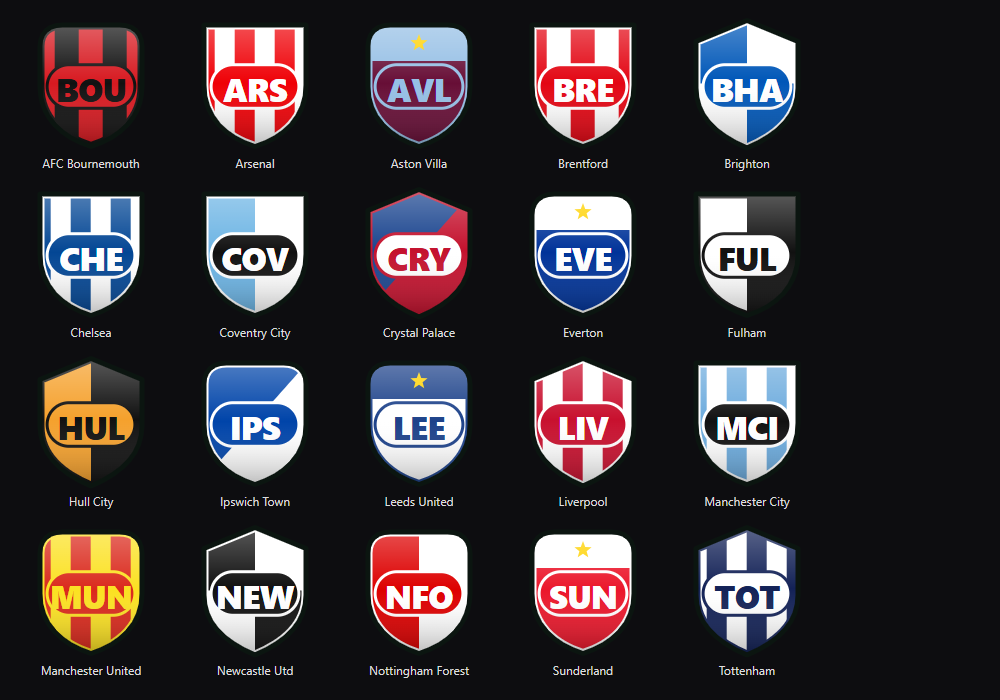
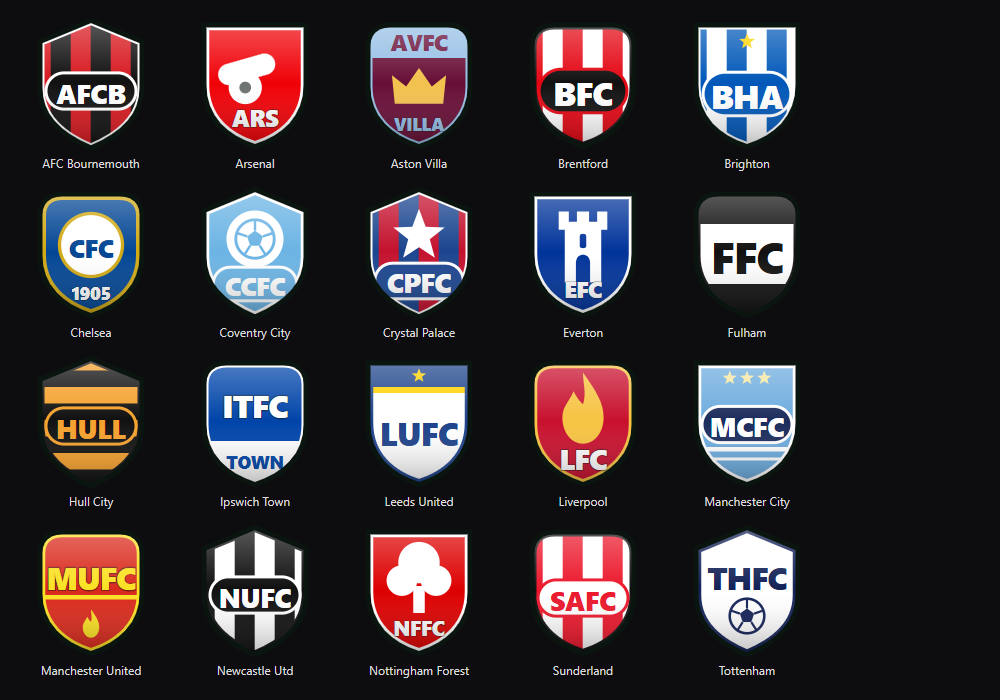
Carreira: escudos dos 96 clubes europeus refeitos à mão

diff --git a/public/carreira/escudos.js b/public/carreira/escudos.js
@@ -2,8 +2,9 @@
 // Cada escudo é uma forma (escudo, tábua, ponta, redondo ou triângulo) com camadas por dentro: o fundo, listras, faixas,
 // diagonais, o anel, a borda, estrelas, um símbolo e as letras do clube, tudo recortado na forma, com um contorno escuro e
 // um brilho suave por cima.
-// - Os 20 do Brasileirão têm o desenho feito à mão (ESPECIAIS), com o jeito de cada clube: as listras do Flamengo, o
-//   cruzeiro do Cruzeiro, a âncora do Corinthians, a cruz do Vasco, os remos do Remo...
+// - Os 20 do Brasileirão e os 96 clubes das cinco ligas europeias têm o desenho feito à mão (ESPECIAIS), com o jeito de
+//   cada clube: as listras do Flamengo, o cruzeiro do Cruzeiro, a âncora do Corinthians, a torre do Everton, o morcego do
+//   Valencia, o submarino do Villarreal, a flor-de-lis da Fiorentina, a torre Eiffel do PSG...
 // - Os outros clubes usam a receita da base (clube.escudo: forma, fundo, listras, faixa, diagonal, anel, borda, texto,
 //   simbolo, estrelasTopo...). Quando a receita é só fundo, borda e as letras, o escudo ganha um desenho de um dos 7
 //   jeitos (faixa no topo, duas metades, faixa no meio, V, diagonal, listras ou cantos) e uma das 3 formas, sorteados
@@ -43,6 +44,10 @@
   const estrelaPts = (cx, cy, R) => Array.from({ length: 10 }, (_, i) => { const r = i % 2 ? R * 0.42 : R, a = (-90 + i * 36) * Math.PI / 180; return [n2(cx + r * Math.cos(a)), n2(cy + r * Math.sin(a))]; });
   const estrela = (cx, cy, R, cor) => pol(estrelaPts(cx, cy, R), cor, 'stroke-linejoin="round"');
   const estrelas = (n, cy, R, cor) => { const passo = R * 2.3; return Array.from({ length: n }, (_, i) => estrela(40 + (i - (n - 1) / 2) * passo, cy, R, cor)).join(""); };
+  const cruz = (cor, larg = 12, cx = 40, cy = 45) => ret(cx - larg / 2, 0, larg, H, cor) + ret(0, cy - larg / 2, W, larg, cor);
+  const chevron = (cor, y = 0) => pol([[-5, y - 6], [40, y + 32], [85, y - 6], [85, y + 16], [40, y + 54], [-5, y + 16]], cor);
+  const metade = (cor) => ret(40, 0, 40, H, cor);
+  const losangos = (cor, cx, cy, r, n) => { let s = ""; for (let i = -n; i <= n; i++) for (let j = -n; j <= n; j++) if ((i + j) % 2 === 0) s += pol([[cx + i * r, cy + j * r - r], [cx + i * r + r, cy + j * r], [cx + i * r, cy + j * r + r], [cx + i * r - r, cy + j * r]], cor); return s; };
   const FONTE = "Geist, Inter, system-ui, Arial, sans-serif";
   const tamanhoQueCabe = (s, tam, max, extra = 0) => Math.min(tam, max / ([...s].length * 0.62 + extra));
   function texto(s, cx, cy, tam, cor, { max = 58, contorno = "#0b151073" } = {}) {
@@ -63,6 +68,16 @@
     remos: (c) => `<g stroke="${c}" stroke-width="3" stroke-linecap="round"><path d="M-13 -17L13 13M13 -17L-13 13"/></g>`
       + `<ellipse rx="3.4" ry="7" transform="translate(14.5 15) rotate(-42)" fill="${c}"/><ellipse rx="3.4" ry="7" transform="translate(-14.5 15) rotate(42)" fill="${c}"/>`,
     cruzCristo: (c, c2) => `<path d="M-4.5 -19H4.5L5.5 -5.5L19 -4.5V4.5L5.5 5.5L4.5 19H-4.5L-5.5 5.5L-19 4.5V-4.5L-5.5 -5.5Z" fill="${c}"/><path d="M-1.6 -11H1.6V-1.6H11V1.6H1.6V11H-1.6V1.6H-11V-1.6H-1.6Z" fill="${c2 || "#fff"}"/>`,
+    canhao: (c) => `<g fill="${c}"><rect x="-19" y="-7" width="30" height="11" rx="5.5" transform="rotate(-16)"/><circle cx="-5" cy="9" r="8.5"/><circle cx="-5" cy="9" r="3" fill="#0b151099"/></g>`,
+    chama: (c) => `<path d="M0 -19C7 -9 11 -3 11 5C11 13 6 19 0 19C-6 19 -11 13 -11 5C-11 -1 -7 -4 -5 -9C-3 -5 -1 -3 0 -2C2 -8 0 -13 0 -19Z" fill="${c}"/>`,
+    torre: (c, c2) => `<path d="M-9 20V-6H-12V-15H-7V-10H-3V-15H3V-10H7V-15H12V-6H9V20Z" fill="${c}"/><path d="M-3.5 20V10C-3.5 5 3.5 5 3.5 10V20Z" fill="${c2 || "#0b1510aa"}"/><rect x="-1.6" y="-4" width="3.2" height="7" rx="1.2" fill="${c2 || "#0b1510aa"}"/>`,
+    arvore: (c) => `<g fill="${c}"><rect x="-3.2" y="5" width="6.4" height="15"/><circle cx="0" cy="-8" r="11.5"/><circle cx="-9.5" cy="2" r="8.5"/><circle cx="9.5" cy="2" r="8.5"/></g>`,
+    morcego: (c) => `<path d="M-19 -5C-12 -13 -6 -9 0 -13C6 -9 12 -13 19 -5C14 -4 12 0 10 5C6 1 4 1 0 5C-4 1 -6 1 -10 5C-12 0 -14 -4 -19 -5Z" fill="${c}"/>`,
+    submarino: (c, c2) => `<g fill="${c}"><ellipse cx="0" cy="4" rx="19" ry="9.5"/><rect x="-5" y="-8" width="10" height="12" rx="2.5"/><rect x="1.5" y="-14" width="3" height="8"/><rect x="1.5" y="-14" width="10" height="3"/><path d="M19 4L24 -2V10Z"/></g><g fill="${c2 || "#0b151099"}"><circle cx="-9" cy="4" r="2.6"/><circle cx="0" cy="4" r="2.6"/><circle cx="9" cy="4" r="2.6"/></g>`,
+    flordelis: (c) => `<g fill="${c}"><path d="M0 -20C7 -13 7 -4 0 5C-7 -4 -7 -13 0 -20Z"/><path d="M-4 3C-13 -9 -21 -5 -19 3C-18 9 -11 10 -5 7Z"/><path d="M4 3C13 -9 21 -5 19 3C18 9 11 10 5 7Z"/><rect x="-10" y="8" width="20" height="4.5" rx="1.5"/><path d="M-4 12L0 20L4 12Z"/></g>`,
+    flor: (c, c2) => `<g fill="${c}">${[0, 72, 144, 216, 288].map((a) => `<ellipse cx="0" cy="-10" rx="6.5" ry="9.5" transform="rotate(${a})"/>`).join("")}</g><circle r="5.2" fill="${c2 || "#0b151099"}"/>`,
+    touro: (c, c2) => `<g fill="${c}"><path d="M-19 -15C-19 -4 -12 2 -7 2L7 2C12 2 19 -4 19 -15C14 -8 10 -6 6 -6L-6 -6C-10 -6 -14 -8 -19 -15Z"/><ellipse cx="0" cy="8" rx="9.5" ry="12.5"/></g><circle cx="-4.2" cy="7" r="1.7" fill="${c2 || "#0b1510"}"/><circle cx="4.2" cy="7" r="1.7" fill="${c2 || "#0b1510"}"/>`,
+    eiffel: (c) => `<g fill="${c}"><path d="M-2 -20H2L11 20H5L0 4L-5 20H-11Z"/><rect x="-6.5" y="-5" width="13" height="3"/><rect x="-9.5" y="8" width="19" height="3"/></g>`,
     coroa: (c) => `<path d="M-17 11L-19 -9L-9 -1L0 -14L9 -1L19 -9L17 11Z" fill="${c}"/>`,
     bola: (c) => `<circle r="16" fill="#fff" stroke="${c}" stroke-width="2.4"/><path d="M0 -7L6.6 -2.2L4 5.6H-4L-6.6 -2.2Z" fill="${c}"/><path d="M0 -7V-16M6.6 -2.2L15 -5M4 5.6L9 13.5M-4 5.6L-9 13.5M-6.6 -2.2L-15 -5" stroke="${c}" stroke-width="2" fill="none"/>`,
     raio: (c) => `<path d="M5 -20L-12 4H-2L-6 20L13 -5H3Z" fill="${c}" stroke="#0b151066" stroke-width="1.2" stroke-linejoin="round"/>`,
@@ -93,6 +108,112 @@
     chapecoense: { forma: "escudo", cam: (d) => [fundo("#00843d"), borda(d, "#ffffff", 3.5), texto("ACF", 40, 40, 27, "#ffffff"), faixa(51, 54, "#ffffff"), texto("CHAPE", 40, 64, 12, "#ffffff")] },
     remo: { forma: "escudo", cam: (d) => [fundo("#0a2a66"), borda(d, "#ffffff", 3.5), estrela(40, 19, 6.5, OURO), simbolo("remos", 40, 38, 0.95, "#ffffff"), texto("REMO", 40, 67, 13, "#ffffff")] },
   };
+
+  // ---------- os 96 das cinco ligas europeias ----------
+  // cada um com as cores do clube e um elemento que lembra o escudo (sem copiar o desenho)
+  Object.assign(ESPECIAIS, {
+    // Inglaterra
+    "afc-bournemouth": { forma: "ponta", cam: (d) => [listrasV(["#d71920", "#111111"], 6), borda(d, "#ffffff", 3), pill("AFCB", 40, 50, 20, "#111111", "#ffffff", "#ffffff")] },
+    arsenal: { forma: "escudo", cam: (d) => [fundo("#ef0107"), borda(d, "#ffffff", 3.5), simbolo("canhao", 40, 36, 1.3, "#ffffff"), texto("ARS", 40, 67, 16, "#ffffff")] },
+    "aston-villa": { forma: "tabua", cam: (d) => [fundo("#670e36"), faixa(6, 28, "#95bfe5"), borda(d, "#95bfe5", 3), texto("AVFC", 40, 17, 15, "#670e36", { contorno: "#ffffff00" }), simbolo("coroa", 40, 48, 0.95, "#f2c14e"), texto("VILLA", 40, 72, 12, "#95bfe5")] },
+    brentford: { forma: "tabua", cam: (d) => [listrasV(["#e30613", "#ffffff"], 6), borda(d, "#111111", 3), pill("BFC", 40, 50, 22, "#111111", "#ffffff", "#e30613")] },
+    brighton: { forma: "escudo", cam: (d) => [listrasV(["#0057b8", "#ffffff"], 6), borda(d, "#ffffff", 3), pill("BHA", 40, 52, 22, "#0057b8", "#ffffff", "#ffffff"), estrelas(1, 17, 5.5, OURO)] },
+    chelsea: { forma: "tabua", cam: (d) => [fundo("#034694"), borda(d, "#d1a915", 4), disco(40, 40, 21, "#ffffff", "#d1a915"), texto("CFC", 40, 41, 17, "#034694", { contorno: "#ffffff00" }), texto("1905", 40, 72, 12, "#ffffff")] },
+    "coventry-city": { forma: "ponta", cam: (d) => [fundo("#6cb4e4"), borda(d, "#ffffff", 3.5), disco(40, 36, 19, "#ffffff"), simbolo("bola", 40, 36, 0.8, "#6cb4e4"), pill("CCFC", 40, 66, 17, "#6cb4e4", "#ffffff", "#ffffff")] },
+    "crystal-palace": { forma: "ponta", cam: (d) => [listrasV(["#1b458f", "#c4122e"], 6), borda(d, "#ffffff", 3), simbolo("estrela", 40, 33, 0.9, "#ffffff"), pill("CPFC", 40, 64, 18, "#1b458f", "#ffffff", "#ffffff")] },
+    everton: { forma: "escudo", cam: (d) => [fundo("#003399"), borda(d, "#ffffff", 3.5), simbolo("torre", 40, 38, 1.35, "#ffffff", "#003399"), texto("EFC", 40, 69, 15, "#ffffff")] },
+    fulham: { forma: "tabua", cam: (d) => [fundo("#ffffff"), faixa(6, 26, "#111111"), faixa(66, 90, "#111111"), borda(d, "#111111", 3), texto("FFC", 40, 47, 29, "#111111", { contorno: "#ffffffaa" })] },
+    "hull-city": { forma: "ponta", cam: (d) => [listrasH(["#f5a12d", "#111111"], 11), borda(d, "#111111", 3), pill("HULL", 40, 48, 20, "#111111", "#f5a12d", "#f5a12d")] },
+    "ipswich-town": { forma: "tabua", cam: (d) => [fundo("#0044a9"), faixa(58, 90, "#ffffff"), borda(d, "#ffffff", 3), texto("ITFC", 40, 34, 21, "#ffffff"), texto("TOWN", 40, 72, 12, "#0044a9", { contorno: "#ffffff00" })] },
+    "leeds-united": { forma: "escudo", cam: (d) => [fundo("#ffffff"), faixa(6, 22, "#1d428a"), faixa(22, 26, "#ffd100"), borda(d, "#1d428a", 3.5), estrelas(1, 14.5, 5, "#ffd100"), texto("LUFC", 40, 52, 22, "#1d428a", { contorno: "#ffffffaa" })] },
+    liverpool: { forma: "tabua", cam: (d) => [fundo("#c8102e"), borda(d, "#f6c342", 3.5), simbolo("chama", 40, 36, 1.25, "#f6c342"), texto("LFC", 40, 69, 19, "#ffffff")] },
+    "manchester-city": { forma: "escudo", cam: (d) => [fundo("#6cabdd"), borda(d, "#ffffff", 3.5), estrelas(3, 16, 5, "#f6e7a1"), pill("MCFC", 40, 47, 20, "#1c2c5b", "#ffffff", "#ffffff"), faixa(62, 65, "#ffffff"), faixa(69, 71, "#ffffff")] },
+    "manchester-united": { forma: "tabua", cam: (d) => [fundo("#da291c"), borda(d, "#fbe122", 3.5), texto("MUFC", 40, 36, 21, "#fbe122"), faixa(48, 51, "#fbe122"), simbolo("chama", 40, 67, 0.5, "#fbe122")] },
+    "newcastle-utd": { forma: "ponta", cam: (d) => [listrasV(["#111111", "#ffffff"], 6), borda(d, "#111111", 3), pill("NUFC", 40, 48, 20, "#111111", "#ffffff", "#ffffff")] },
+    "nottingham-forest": { forma: "escudo", cam: (d) => [fundo("#dd0000"), borda(d, "#ffffff", 3.5), simbolo("arvore", 40, 36, 1.2, "#ffffff"), texto("NFFC", 40, 69, 14, "#ffffff")] },
+    sunderland: { forma: "tabua", cam: (d) => [listrasV(["#eb172b", "#ffffff"], 6), borda(d, "#111111", 3), pill("SAFC", 40, 50, 20, "#ffffff", "#eb172b", "#eb172b")] },
+    tottenham: { forma: "ponta", cam: (d) => [fundo("#ffffff"), borda(d, "#132257", 3.5), texto("THFC", 40, 36, 21, "#132257", { contorno: "#ffffffaa" }), simbolo("bola", 40, 62, 0.72, "#132257")] },
+    // Espanha
+    alaves: { forma: "escudo", cam: (d) => [listrasV(["#005baa", "#ffffff"], 5), borda(d, "#005baa", 3), pill("ALA", 40, 50, 22, "#005baa", "#ffffff", "#ffffff")] },
+    "athletic-club": { forma: "escudo", cam: (d) => [listrasV(["#ee2523", "#ffffff"], 6), faixa(6, 20, "#111111"), borda(d, "#111111", 3.5), pill("ATH", 40, 52, 22, "#111111", "#ffffff", "#ee2523")] },
+    "atletico-de-madrid": { forma: "escudo", cam: (d) => [listrasV(["#d71920", "#ffffff"], 6, 26, 90), faixa(6, 26, "#1b3b8f"), estrelas(7, 16, 3.1, "#ffffff"), borda(d, "#1b3b8f", 3), pill("ATM", 40, 56, 22, "#1b3b8f", "#ffffff", "#ffffff")] },
+    "ca-osasuna": { forma: "tabua", cam: (d) => [fundo("#d71920"), faixa(6, 28, "#0a2a66"), borda(d, "#0a2a66", 3), ret(35, 34, 10, 42, "#ffffff"), ret(23, 46, 34, 10, "#ffffff"), texto("OSA", 40, 17, 15, "#ffffff")] },
+    "celta-de-vigo": { forma: "ponta", cam: (d) => [fundo("#8ac3ee"), borda(d, "#ffffff", 3.5), simbolo("coroa", 40, 30, 0.95, "#ffffff"), pill("CELTA", 40, 60, 15, "#ffffff", "#2b7bb9", "#2b7bb9")] },
+    "deportivo-la-coruna": { forma: "escudo", cam: (d) => [listrasV(["#005bac", "#ffffff"], 6), borda(d, "#005bac", 3), disco(40, 22, 12, "#005bac"), simbolo("coroa", 40, 22, 0.62, "#f2c14e"), pill("RCD", 40, 56, 21, "#005bac", "#ffffff", "#ffffff")] },
+    "elche-cf": { forma: "tabua", cam: (d) => [fundo("#ffffff"), diag("#198754", 13), borda(d, "#198754", 3), pill("ELC", 40, 50, 22, "#198754", "#ffffff", "#ffffff")] },
+    "fc-barcelona": { forma: "tabua", cam: (d) => [listrasV(["#004d98", "#a50044"], 6, 26, 90), faixa(6, 26, "#f0c24a"), borda(d, "#f0c24a", 3), texto("FCB", 40, 17, 16, "#a50044", { contorno: "#f0c24a00" }), simbolo("bola", 40, 58, 0.95, "#111111")] },
+    "getafe-cf": { forma: "escudo", cam: (d) => [fundo("#005999"), chevron("#ffffff", 0), borda(d, "#ffffff", 3), pill("GET", 40, 67, 17, "#005999", "#ffffff", "#ffffff")] },
+    "levante-ud": { forma: "ponta", cam: (d) => [listrasV(["#0050a4", "#b51f2b"], 4), borda(d, "#ffffff", 3), pill("LUD", 40, 48, 21, "#ffffff", "#0050a4", "#0050a4")] },
+    malaga: { forma: "tabua", cam: (d) => [fundo("#00a3e0"), borda(d, "#ffffff", 3.5), simbolo("torre", 40, 34, 1.2, "#ffffff", "#00a3e0"), texto("MCF", 40, 66, 18, "#ffffff")] },
+    "racing-de-santander": { forma: "ponta", cam: (d) => [listrasD(["#00843d", "#ffffff"], 12), borda(d, "#00843d", 3), pill("RAC", 40, 48, 22, "#00843d", "#ffffff", "#ffffff")] },
+    "rayo-vallecano": { forma: "escudo", cam: (d) => [fundo("#ffffff"), borda(d, "#e30613", 4), simbolo("raio", 40, 40, 1.65, "#e30613"), texto("RAYO", 40, 69, 13, "#e30613", { contorno: "#ffffffaa" })] },
+    "rcd-espanyol": { forma: "ponta", cam: (d) => [listrasV(["#007fc8", "#ffffff"], 6), borda(d, "#007fc8", 3), disco(40, 22, 12, "#007fc8"), simbolo("coroa", 40, 22, 0.62, "#f2c14e"), pill("RCDE", 40, 52, 19, "#007fc8", "#ffffff", "#ffffff")] },
+    "real-betis": { forma: "tabua", cam: (d) => [listrasV(["#00954c", "#ffffff"], 6), borda(d, "#d4af37", 3), disco(40, 22, 12, "#00954c"), simbolo("coroa", 40, 22, 0.62, "#f2c14e"), pill("RBB", 40, 52, 22, "#00954c", "#ffffff", "#d4af37")] },
+    "real-madrid": { forma: "tabua", cam: (d) => [fundo("#ffffff"), borda(d, "#febd11", 4.5), simbolo("coroa", 40, 24, 1.15, "#febd11"), faixa(40, 43, "#febd11"), texto("RMCF", 40, 59, 20, "#1a3a8f", { contorno: "#ffffffaa" })] },
+    "real-sociedad": { forma: "ponta", cam: (d) => [fundo("#ffffff"), metade("#0067b1"), borda(d, "#0067b1", 3), disco(40, 25, 13, "#ffffff", "#0067b1"), simbolo("coroa", 40, 25, 0.62, "#e30613"), pill("RSO", 40, 56, 21, "#0067b1", "#ffffff", "#ffffff")] },
+    "sevilla-fc": { forma: "escudo", cam: (d) => [fundo("#ffffff"), faixa(6, 28, "#d71920"), borda(d, "#d71920", 3.5), simbolo("coroa", 40, 17, 0.62, "#ffffff"), pill("SFC", 40, 52, 22, "#d71920", "#ffffff", "#d71920")] },
+    "valencia-cf": { forma: "tabua", cam: (d) => [fundo("#ffffff"), faixa(62, 90, "#ff8200"), borda(d, "#111111", 3), simbolo("morcego", 40, 36, 1.45, "#111111"), texto("VCF", 40, 72, 15, "#111111", { contorno: "#ff820000" })] },
+    "villarreal-cf": { forma: "ponta", cam: (d) => [fundo("#005187"), borda(d, "#ffe600", 3.5), simbolo("submarino", 38, 40, 1.35, "#ffe600", "#005187"), texto("VCF", 40, 70, 15, "#ffe600")] },
+    // Itália
+    "as-roma": { forma: "tabua", cam: (d) => [fundo("#8e1f2d"), borda(d, "#f0bc42", 4), texto("SPQR", 40, 20, 14, "#f0bc42"), faixa(28, 31, "#f0bc42"), texto("ROMA", 40, 55, 20, "#ffffff")] },
+    atalanta: { forma: "tabua", cam: (d) => [listrasV(["#0057b8", "#111111"], 6), borda(d, "#ffffff", 3), estrelas(1, 15, 5.5, "#ffffff"), pill("ATA", 40, 52, 22, "#ffffff", "#0057b8", "#0057b8")] },
+    bologna: { forma: "escudo", cam: (d) => [listrasV(["#b51f2b", "#1a2f5a"], 6), borda(d, "#ffffff", 3), pill("BFC", 40, 50, 22, "#ffffff", "#1a2f5a", "#b51f2b")] },
+    cagliari: { forma: "ponta", cam: (d) => [fundo("#1a2f5a"), ret(0, 0, 40, 45, "#b51f2b"), ret(40, 45, 40, 45, "#b51f2b"), borda(d, "#ffffff", 3), pill("CAG", 40, 48, 21, "#ffffff", "#1a2f5a", "#1a2f5a")] },
+    como: { forma: "escudo", cam: (d) => [fundo("#005bac"), cruz("#ffffff", 10, 40, 45), borda(d, "#ffffff", 3), pill("COM", 40, 45, 18, "#005bac", "#ffffff", "#ffffff")] },
+    fiorentina: { forma: "tabua", cam: (d) => [fundo("#5b2c83"), borda(d, "#ffffff", 3.5), simbolo("flordelis", 40, 34, 1.4, "#ffffff"), texto("ACF", 40, 69, 16, "#ffffff")] },
+    frosinone: { forma: "escudo", cam: (d) => [fundo("#ffd100"), ret(28, 0, 24, H, "#005bac"), borda(d, "#005bac", 3.5), pill("FRO", 40, 50, 19, "#005bac", "#ffd100", "#ffd100")] },
+    genoa: { forma: "ponta", cam: (d) => [fundo("#b51f2b"), metade("#1a2f5a"), borda(d, "#ffffff", 3), pill("GEN", 40, 48, 21, "#ffffff", "#b51f2b", "#1a2f5a")] },
+    "inter-de-milao": { forma: "redondo", cam: () => [listrasV(["#0068a8", "#111111"], 6), anel(32, "#d4af37", 4), disco(40, 45, 18, "#ffffff"), texto("FCIM", 40, 45, 15, "#111111", { contorno: "#ffffff00" })] },
+    juventus: { forma: "ponta", cam: (d) => [listrasV(["#ffffff", "#111111"], 6), borda(d, "#111111", 3), estrelas(2, 14, 5, "#ffd200"), pill("JUVE", 40, 50, 20, "#111111", "#ffffff", "#ffffff")] },
+    lazio: { forma: "escudo", cam: (d) => [fundo("#87ceeb"), borda(d, "#ffffff", 4), simbolo("estrela", 40, 37, 1.05, "#ffffff"), pill("SSL", 40, 66, 16, "#ffffff", "#2a7aa8", "#ffffff")] },
+    lecce: { forma: "tabua", cam: (d) => [listrasV(["#ffd100", "#d71920"], 6), borda(d, "#111111", 3), pill("LEC", 40, 50, 22, "#111111", "#ffd100", "#ffd100")] },
+    milan: { forma: "escudo", cam: (d) => [listrasV(["#d71920", "#111111"], 6), borda(d, "#ffffff", 3), pill("ACM", 40, 50, 22, "#ffffff", "#d71920", "#d71920")] },
+    monza: { forma: "tabua", cam: (d) => [fundo("#d71920"), diag("#ffffff", 11), borda(d, "#ffffff", 3), pill("MON", 40, 50, 21, "#d71920", "#ffffff", "#ffffff")] },
+    parma: { forma: "escudo", cam: (d) => [fundo("#ffd100"), cruz("#005bac", 14, 40, 45), borda(d, "#005bac", 3.5), pill("PAR", 40, 45, 17, "#005bac", "#ffd100", "#ffd100")] },
+    sassuolo: { forma: "ponta", cam: (d) => [listrasV(["#00a651", "#111111"], 6), borda(d, "#ffffff", 3), pill("SAS", 40, 48, 21, "#ffffff", "#00a651", "#00a651")] },
+    "ssc-napoli": { forma: "tabua", cam: (d) => [fundo("#12a0d8"), borda(d, "#ffffff", 4), texto("N", 40, 43, 56, "#ffffff"), texto("SSCN", 40, 72, 12, "#ffffff")] },
+    torino: { forma: "escudo", cam: (d) => [fundo("#7a263a"), borda(d, "#f0bc42", 3.5), simbolo("touro", 40, 38, 1.5, "#ffffff", "#7a263a"), texto("TFC", 40, 69, 15, "#f0bc42")] },
+    udinese: { forma: "tabua", cam: (d) => [listrasV(["#ffffff", "#111111"], 8), borda(d, "#111111", 3), pill("UDI", 40, 50, 22, "#111111", "#ffffff", "#ffffff")] },
+    venezia: { forma: "escudo", cam: (d) => [fundo("#111111"), pol([[80, 0], [80, 90], [0, 90]], "#f58220"), borda(d, "#00843d", 3.5), pill("VEN", 40, 48, 21, "#111111", "#ffffff", "#ffffff")] },
+    // Alemanha
+    "1-fc-koln": { forma: "tabua", cam: (d) => [fundo("#ffffff"), faixa(6, 28, "#e30613"), borda(d, "#e30613", 3.5), texto("1.FC", 40, 17, 14, "#ffffff"), texto("KÖLN", 40, 52, 24, "#e30613", { contorno: "#ffffffaa" })] },
+    "1-fsv-mainz-05": { forma: "ponta", cam: (d) => [fundo("#e30613"), borda(d, "#ffffff", 3.5), texto("05", 40, 42, 44, "#ffffff"), texto("FSV", 40, 69, 15, "#ffffff")] },
+    "bayer-leverkusen": { forma: "ponta", cam: (d) => [listrasV(["#e32221", "#111111"], 6), borda(d, "#ffffff", 3), disco(40, 44, 21, "#ffffff", "#111111"), texto("04", 40, 45, 26, "#e32221", { contorno: "#ffffff00" })] },
+    "borussia-dortmund": { forma: "escudo", cam: (d) => [fundo("#fde100"), borda(d, "#111111", 4.5), texto("BVB", 40, 36, 27, "#111111", { contorno: "#fde10000" }), texto("09", 40, 64, 22, "#111111", { contorno: "#fde10000" })] },
+    "borussia-monchengladbach": { forma: "tabua", cam: (d) => [fundo("#ffffff"), faixa(6, 26, "#00954c"), borda(d, "#00954c", 3.5), texto("1900", 40, 16, 13, "#ffffff"), texto("BMG", 40, 50, 24, "#111111", { contorno: "#ffffffaa" }), faixa(64, 70, "#111111")] },
+    "eintracht-frankfurt": { forma: "escudo", cam: (d) => [fundo("#e1000f"), faixa(36, 52, "#111111"), borda(d, "#ffffff", 3.5), texto("SGE", 40, 24, 24, "#ffffff"), texto("EINTRACHT", 40, 44, 9.5, "#ffffff"), texto("1899", 40, 66, 15, "#ffffff")] },
+    elversberg: { forma: "tabua", cam: (d) => [fundo("#111111"), diag("#ffffff", 6), borda(d, "#ffffff", 3.5), pill("SVE", 40, 50, 22, "#111111", "#ffffff", "#ffffff")] },
+    "fc-augsburg": { forma: "escudo", cam: (d) => [listrasV(["#ba3733", "#ffffff", "#2e7d32"], 3), borda(d, "#ba3733", 3), pill("FCA", 40, 50, 22, "#ba3733", "#ffffff", "#ffffff")] },
+    "fc-bayern-munchen": { forma: "redondo", cam: () => [fundo("#0066b2"), anel(32, "#dc052d", 6), disco(40, 45, 22, "#ffffff"), losangos("#0066b2", 40, 45, 6, 2)] },
+    "hamburger-sv": { forma: "escudo", cam: (d) => [fundo("#ffffff"), pol([[40, 10], [72, 45], [40, 80], [8, 45]], "#005aaa"), borda(d, "#111111", 3.5), texto("HSV", 40, 46, 22, "#ffffff")] },
+    paderborn: { forma: "ponta", cam: (d) => [fundo("#1f3c88"), metade("#111111"), borda(d, "#ffffff", 3), pill("SCP", 40, 44, 21, "#ffffff", "#1f3c88", "#1f3c88"), texto("07", 40, 70, 13, "#ffffff")] },
+    "rb-leipzig": { forma: "escudo", cam: (d) => [fundo("#ffffff"), borda(d, "#d71920", 3.5), disco(40, 38, 24, "#d71920"), texto("RB", 40, 38, 28, "#ffffff"), texto("LEIPZIG", 40, 72, 9, "#d71920", { contorno: "#ffffff00" })] },
+    "sc-freiburg": { forma: "tabua", cam: (d) => [fundo("#e30613"), borda(d, "#ffffff", 3.5), texto("SC", 40, 20, 19, "#ffffff"), faixa(31, 34, "#ffffff"), texto("FREIBURG", 40, 46, 10.5, "#ffffff"), texto("1904", 40, 66, 15, "#ffffff")] },
+    "schalke-04": { forma: "ponta", cam: (d) => [fundo("#004d9d"), borda(d, "#ffffff", 3.5), texto("S04", 40, 42, 28, "#ffffff"), faixa(60, 64, "#ffffff")] },
+    "sv-werder-bremen": { forma: "redondo", cam: () => [fundo("#008557"), anel(32, "#ffffff", 3), texto("W", 40, 46, 50, "#ffffff")] },
+    "tsg-hoffenheim": { forma: "tabua", cam: (d) => [fundo("#005bac"), borda(d, "#ffffff", 3.5), texto("TSG", 40, 32, 29, "#ffffff"), faixa(46, 49, "#ffffff"), texto("1899", 40, 64, 17, "#ffffff")] },
+    "union-berlin": { forma: "escudo", cam: (d) => [fundo("#e30613"), faixa(6, 24, "#ffffff"), borda(d, "#ffffff", 3.5), texto("1.FC", 40, 15, 13, "#e30613", { contorno: "#ffffff00" }), texto("UNION", 40, 48, 18, "#ffffff"), texto("BERLIN", 40, 64, 11, "#ffffff")] },
+    "vfb-stuttgart": { forma: "escudo", cam: (d) => [fundo("#ffffff"), chevron("#e30613", 0), borda(d, "#e30613", 3), texto("VfB", 40, 68, 18, "#e30613", { contorno: "#ffffffaa" })] },
+    // França
+    "aj-auxerre": { forma: "tabua", cam: (d) => [fundo("#ffffff"), faixa(6, 48, "#005bac"), borda(d, "#005bac", 3), pill("AJA", 40, 48, 22, "#005bac", "#ffffff", "#ffffff")] },
+    "angers-sco": { forma: "ponta", cam: (d) => [fundo("#111111"), borda(d, "#ffffff", 3.5), estrelas(1, 17, 6, "#ffffff"), texto("SCO", 40, 48, 32, "#ffffff")] },
+    "as-monaco": { forma: "escudo", cam: (d) => [fundo("#ffffff"), pol([[0, 0], [80, 0], [0, 90]], "#e30613"), borda(d, "#e30613", 3), simbolo("coroa", 38, 22, 0.8, "#f2c14e"), pill("ASM", 40, 54, 22, "#ffffff", "#e30613", "#e30613")] },
+    "fc-lorient": { forma: "tabua", cam: (d) => [fundo("#f58220"), borda(d, "#111111", 3.5), simbolo("ancora", 40, 38, 1.3, "#111111"), texto("FCL", 40, 70, 16, "#111111", { contorno: "#f5822000" })] },
+    "havre-ac": { forma: "escudo", cam: (d) => [listrasH(["#6bb7d6", "#1a2f5a"], 15), borda(d, "#ffffff", 3), pill("HAC", 40, 48, 22, "#1a2f5a", "#ffffff", "#ffffff")] },
+    "le-mans-fc": { forma: "ponta", cam: (d) => [fundo("#d71920"), metade("#ffd100"), borda(d, "#111111", 3), pill("LEM", 40, 48, 21, "#111111", "#ffffff", "#ffffff")] },
+    "losc-lille": { forma: "tabua", cam: (d) => [fundo("#d71920"), borda(d, "#1a2f5a", 4), simbolo("flordelis", 40, 38, 1.4, "#ffffff"), texto("LOSC", 40, 70, 15, "#ffffff")] },
+    lyon: { forma: "escudo", cam: (d) => [fundo("#ffffff"), faixa(6, 26, "#005bac"), faixa(26, 30, "#d71920"), borda(d, "#005bac", 3.5), texto("OL", 40, 17, 17, "#ffffff"), texto("LYON", 40, 54, 21, "#005bac", { contorno: "#ffffffaa" })] },
+    "ogc-nice": { forma: "ponta", cam: (d) => [fundo("#d71920"), metade("#111111"), borda(d, "#ffffff", 3), pill("OGCN", 40, 46, 19, "#ffffff", "#d71920", "#111111")] },
+    "olympique-de-marseille": { forma: "escudo", cam: (d) => [fundo("#ffffff"), borda(d, "#00a9e0", 4), texto("OM", 40, 40, 34, "#00a9e0", { contorno: "#ffffffaa" }), estrela(40, 68, 6, "#ffd200")] },
+    "paris-fc": { forma: "tabua", cam: (d) => [fundo("#1a2f5a"), ret(30, 0, 20, H, "#6bb7d6"), borda(d, "#ffffff", 3.5), pill("PFC", 40, 48, 22, "#1a2f5a", "#ffffff", "#ffffff")] },
+    "paris-saint-germain": { forma: "redondo", cam: () => [fundo("#004170"), anel(32, "#ffffff", 3.5), faixa(63, 84, "#da291c"), simbolo("eiffel", 40, 36, 1.25, "#ffffff"), texto("PSG", 40, 72, 12, "#ffffff")] },
+    "rc-lens": { forma: "escudo", cam: (d) => [listrasH(["#d71920", "#ffd100"], 15), borda(d, "#111111", 3.5), pill("RCL", 40, 46, 22, "#111111", "#ffd100", "#ffd100")] },
+    "stade-brestois-29": { forma: "tabua", cam: (d) => [fundo("#d71920"), borda(d, "#ffffff", 3.5), texto("29", 40, 40, 46, "#ffffff"), texto("SB", 40, 72, 16, "#ffffff")] },
+    "stade-rennais-fc": { forma: "ponta", cam: (d) => [fundo("#d71920"), diag("#111111", 11), borda(d, "#ffffff", 3), pill("SRFC", 40, 48, 19, "#ffffff", "#d71920", "#111111")] },
+    strasbourg: { forma: "escudo", cam: (d) => [listrasH(["#005bac", "#ffffff"], 12), borda(d, "#005bac", 3), pill("RCSA", 40, 48, 19, "#005bac", "#ffffff", "#ffffff")] },
+    "toulouse-fc": { forma: "tabua", cam: (d) => [fundo("#6f2c91"), borda(d, "#ffffff", 3.5), simbolo("flor", 40, 36, 1.35, "#ffffff", "#6f2c91"), texto("TFC", 40, 70, 17, "#ffffff")] },
+    troyes: { forma: "ponta", cam: (d) => [fundo("#005bac"), diag("#ffffff", 8), borda(d, "#ffffff", 3), pill("ESTAC", 40, 48, 16, "#005bac", "#ffffff", "#ffffff")] },
+  });
 
   // ---------- os outros clubes: a receita da base ----------
   // as 7 maneiras de usar as duas cores de um escudo simples (fundo + borda + letras)

diff --git a/tests/carreira-base.test.js b/tests/carreira-base.test.js
@@ -55,6 +55,15 @@ test("escudos: os 20 do Brasileirão têm desenho próprio e nenhum clube repete
   assert.deepStrictEqual(repetidos, [], `escudos iguais: ${repetidos.map((v) => v.join(" = ")).join("; ")}`);
 });
 
+test("escudos: os 96 clubes das cinco ligas europeias têm desenho feito à mão", () => {
+  const europeus = basesMundo.filter((b) => ["inglaterra-2026", "espanha-2026", "italia-2026", "alemanha-2026", "franca-2026"].includes(b.id)).flatMap((b) => b.clubes);
+  assert.strictEqual(europeus.length, 96);
+  for (const c of europeus) assert.ok(Escudos.ESPECIAIS[c.id], `${c.nome} sem escudo feito à mão`);
+  // nenhum desenho especial sobra sem clube (id errado): todos pertencem a um clube da base
+  const ids = new Set(clubesMundo.map((c) => c.id));
+  for (const id of Object.keys(Escudos.ESPECIAIS)) assert.ok(ids.has(id), `escudo para um clube que não existe: ${id}`);
+});
+
 test("escudos: cada escudo traz as suas próprias definições (ids novos a cada vez)", () => {
   const a = Escudos.svg(base.clubes[0]), b = Escudos.svg(base.clubes[0]);
   assert.notStrictEqual(a, b);

diff --git a/CLAUDE.md b/CLAUDE.md
@@ -25,7 +25,7 @@ decisões dos primeiros dias estão em `PROJETO.md`, e o que mudou em cada PR fi
 | --- | --- |
 | `salas.js` | Salas com código de 5 letras (o que todo jogo usa). Ver a lista de funções logo abaixo. |
 | `bd.js` + `migracoes/` | **Banco de dados** (SQLite pelo `node:sqlite`). `DB_PATH` diz onde fica (no Fly, `/data/galera.db` num volume: ver `DEPLOY-FLY.md`); sem ele, `dados/galera.db`; os testes usam `:memory:`. As migrações `migracoes/NNN-nome.sql` rodam em ordem, uma vez só. Guarda as carreiras (`criarCarreira`, `carreiraPorToken`, `recuperarCarreira`, `salvarCarreira`, `novoCodigoDe` (outro código: o antigo para de valer) e `excluirCarreira`; só o hash do token e do código de recuperação vai para o banco) e as cartas que já saíram nos jogos de baralho (`cartasSaidas`, `marcarCarta`, `zerarCartas`). |
-| `carreira.js` + `carreira-eventos.js` + `public/carreira/` | **Carreira de Treinador.** Canal `/carreira`: `criar`, `entrar` (token), `recuperar` (código), `escalacao` (com `fixo`: cada titular no seu lugar), `modo`, `jogar`, `decidir`, `proposta`, `vender` (lista ou na hora), `evento`, `novaTemporada`, `codigo` (o código de recuperação de novo; o navegador também guarda o código em `carreira:codigo`) e `excluir`. **Várias temporadas:** `save.temporadasMax` (de 1 a 5, escolhido ao assinar); no fim de cada uma, `registrarTemporada` guarda o resumo em `save.historico` (títulos, artilheiro do time, melhor negócio, força); `novaTemporada` evolui o elenco, aposenta e sobe jovens (`virarTemporada`) e monta as copas com a tabela do ano (`save.classificados`). `public/carreira/evolucao.js` (servidor e navegador): idade (`idadeNa`), nota de cada jogo (`notasDaPartida`, guardada em `save.desempenho`), evolução de -2 a +3 (`evolucaoDe`, somada em `bonusNota` e em `save.evolucao`), aposentadoria (dono `aposentado`) e jovens da base (`criarJovem`, em `save.jovens`; o navegador recebe os que precisa em `estado.jovens`). Os jogos sem você usam os elencos do começo da temporada (`basesDaTemporada`, de `save.donosInicio`). Carreiras novas usam `mundo-2026`: as seis ligas jogáveis rodam junto com Libertadores, Champions, Copa do Brasil, Sul-Americana, Super Mundial e Mundial (as três últimas entram só nas carreiras criadas depois: `save.formatoCopas === 2`, e na virada de temporada; `simularMundo({ copasNovas })`; a Copa do Brasil tem 20 clubes com fase preliminar e o campeão leva vaga na Libertadores; a Sul-Americana tem 16, com os terceiros dos grupos da Libertadores; o Super Mundial tem 16, em grupos e jogos únicos); `save.caixaIgual` (100 ou 300 mi) dá o mesmo caixa a todos os clubes no começo, e na sala em grupo é a opção `caixaIgual`; `temporada.js` gera grupos, mata-matas, pênaltis e semanas alternadas de liga/copa, e `save.competicoes` guarda tipo, fase, grupos, jogos e resultados. Jogos da CPU passam pelo motor e têm cache determinístico; o placar humano substitui a simulação e recalcula o futuro. Saves antigos seguem na base original, só com o Brasileirão. O save inteiro fica em `carreiras.dados` (`bd.js`): competições, resultados ao vivo, escalação, caixa, moral, `donos` (quem mudou de clube), lesões, suspensões, amarelos, caixa de entrada e a partida em andamento (semente e decisões). A tabela tem abas internas por competição e o calendário mistura liga e copa. `carreira-eventos.js`: os eventos entre as rodadas (propostas, mercado dos outros clubes, torcida) e o catálogo de `carreira-catalogo.js` com `carreira-catalogo-extra.js` (224 eventos com alvo, condição e escolhas). Página: `estilo.css` (o visual inteiro, escuro e minimalista: tokens em `:root`, a cor do clube só como `--acento`, as animações no fim; as cartas por nota: bronze até 79, prata 80-84, ouro 85-89 e elite 90+, em `faixa` de `inicio.js`) e `simbolos.js` (os ícones da carreira em SVG, um sprite que entra antes do de `/icones.js` e ganha dele). Scripts em ordem: `inicio.js` (conexão, base mundial, contas do elenco; `?sala=` liga o modo grupo), `grupo.js` (a sala da carreira em grupo), `escudos.js` (os escudos em SVG: `Escudos.svg(clube)`; os 20 do Brasileirão têm desenho feito à mão em `ESPECIAIS`, os outros saem da receita `clube.escudo` da base, e o escudo simples (fundo, borda e letras) ganha um de 7 jeitos e uma de 3 formas sorteados pelo id; cada `<svg>` traz ids próprios), `cartas.js` (a camisa vem de `camisas.js`: `Camisas.de(clube)`, [cor, detalhe, desenho, calção], porque o escudo não diz como é a camisa; o visitante troca de camisa se parecer com a do mandante, `uniformeDoClube(clube, contra)`), `telas.js` (a sede é o **hub** no estilo EA FC: no PC, três colunas, com o próximo jogo e o botão de jogar, os blocos da gestão (`.hub-tiles`), as notícias em destaque no meio (`feedNaSede`: manchete e grade) e a caixa de entrada ao lado; o acento segue a cor do campeonato, `body[data-liga]`; tabelas, calendário), `elenco.js`, `tela-mercado.js`, `feed.js`, `posjogo.js`, `painel.js` (o painel do time na sede, `#painelTime`: visão geral, setores, elenco e finanças, com as abas, os números contando e as cartas inclinando atrás do mouse), `disputa.js`, `estadios.js` e `partida.js`. `mercado.js` é compartilhado por servidor e navegador; `orcamentos.js` é a reserva para clubes sem orçamento gerado; `carreira-feed.js` também publica classificação, eliminação e título das copas. Na Vila, o prédio é a **Sede da Carreira**, na Praça. |
+| `carreira.js` + `carreira-eventos.js` + `public/carreira/` | **Carreira de Treinador.** Canal `/carreira`: `criar`, `entrar` (token), `recuperar` (código), `escalacao` (com `fixo`: cada titular no seu lugar), `modo`, `jogar`, `decidir`, `proposta`, `vender` (lista ou na hora), `evento`, `novaTemporada`, `codigo` (o código de recuperação de novo; o navegador também guarda o código em `carreira:codigo`) e `excluir`. **Várias temporadas:** `save.temporadasMax` (de 1 a 5, escolhido ao assinar); no fim de cada uma, `registrarTemporada` guarda o resumo em `save.historico` (títulos, artilheiro do time, melhor negócio, força); `novaTemporada` evolui o elenco, aposenta e sobe jovens (`virarTemporada`) e monta as copas com a tabela do ano (`save.classificados`). `public/carreira/evolucao.js` (servidor e navegador): idade (`idadeNa`), nota de cada jogo (`notasDaPartida`, guardada em `save.desempenho`), evolução de -2 a +3 (`evolucaoDe`, somada em `bonusNota` e em `save.evolucao`), aposentadoria (dono `aposentado`) e jovens da base (`criarJovem`, em `save.jovens`; o navegador recebe os que precisa em `estado.jovens`). Os jogos sem você usam os elencos do começo da temporada (`basesDaTemporada`, de `save.donosInicio`). Carreiras novas usam `mundo-2026`: as seis ligas jogáveis rodam junto com Libertadores, Champions, Copa do Brasil, Sul-Americana, Super Mundial e Mundial (as três últimas entram só nas carreiras criadas depois: `save.formatoCopas === 2`, e na virada de temporada; `simularMundo({ copasNovas })`; a Copa do Brasil tem 20 clubes com fase preliminar e o campeão leva vaga na Libertadores; a Sul-Americana tem 16, com os terceiros dos grupos da Libertadores; o Super Mundial tem 16, em grupos e jogos únicos); `save.caixaIgual` (100 ou 300 mi) dá o mesmo caixa a todos os clubes no começo, e na sala em grupo é a opção `caixaIgual`; `temporada.js` gera grupos, mata-matas, pênaltis e semanas alternadas de liga/copa, e `save.competicoes` guarda tipo, fase, grupos, jogos e resultados. Jogos da CPU passam pelo motor e têm cache determinístico; o placar humano substitui a simulação e recalcula o futuro. Saves antigos seguem na base original, só com o Brasileirão. O save inteiro fica em `carreiras.dados` (`bd.js`): competições, resultados ao vivo, escalação, caixa, moral, `donos` (quem mudou de clube), lesões, suspensões, amarelos, caixa de entrada e a partida em andamento (semente e decisões). A tabela tem abas internas por competição e o calendário mistura liga e copa. `carreira-eventos.js`: os eventos entre as rodadas (propostas, mercado dos outros clubes, torcida) e o catálogo de `carreira-catalogo.js` com `carreira-catalogo-extra.js` (224 eventos com alvo, condição e escolhas). Página: `estilo.css` (o visual inteiro, escuro e minimalista: tokens em `:root`, a cor do clube só como `--acento`, as animações no fim; as cartas por nota: bronze até 79, prata 80-84, ouro 85-89 e elite 90+, em `faixa` de `inicio.js`) e `simbolos.js` (os ícones da carreira em SVG, um sprite que entra antes do de `/icones.js` e ganha dele). Scripts em ordem: `inicio.js` (conexão, base mundial, contas do elenco; `?sala=` liga o modo grupo), `grupo.js` (a sala da carreira em grupo), `escudos.js` (os escudos em SVG: `Escudos.svg(clube)`; os 20 do Brasileirão e os 96 das cinco ligas europeias têm desenho feito à mão em `ESPECIAIS` (as peças: formas, listras, faixas, cruz, chevron, losangos, símbolos como a torre, o morcego, o submarino e a flor-de-lis), os outros (Argentina e sul-americanos) saem da receita `clube.escudo` da base, e o escudo simples (fundo, borda e letras) ganha um de 7 jeitos e uma de 3 formas sorteados pelo id; cada `<svg>` traz ids próprios), `cartas.js` (a camisa vem de `camisas.js`: `Camisas.de(clube)`, [cor, detalhe, desenho, calção], porque o escudo não diz como é a camisa; o visitante troca de camisa se parecer com a do mandante, `uniformeDoClube(clube, contra)`), `telas.js` (a sede é o **hub** no estilo EA FC: no PC, três colunas, com o próximo jogo e o botão de jogar, os blocos da gestão (`.hub-tiles`), as notícias em destaque no meio (`feedNaSede`: manchete e grade) e a caixa de entrada ao lado; o acento segue a cor do campeonato, `body[data-liga]`; tabelas, calendário), `elenco.js`, `tela-mercado.js`, `feed.js`, `posjogo.js`, `painel.js` (o painel do time na sede, `#painelTime`: visão geral, setores, elenco e finanças, com as abas, os números contando e as cartas inclinando atrás do mouse), `disputa.js`, `estadios.js` e `partida.js`. `mercado.js` é compartilhado por servidor e navegador; `orcamentos.js` é a reserva para clubes sem orçamento gerado; `carreira-feed.js` também publica classificação, eliminação e título das copas. Na Vila, o prédio é a **Sede da Carreira**, na Praça. |
 | `carreira-online.js` | **Carreira em grupo** (canal `/carreira-online`, PR 4 de `planos/carreira-online.md`): a sala com código (`create`/`join`/`act` como os outros jogos: `opcoes` do anfitrião, `clube` sem repetir, `comecar`), o token por pessoa (só o hash vai para o banco), a sala inteira na tabela `carreiras_online` (`bd.salvarSalaCarreira`, `salasCarreira`, `apagarSalaCarreira`; o servidor recarrega ao subir e apaga 24 h depois do último uso). Depois do começo, um mundo só (`carreira.js`, `grupo.novaCarreiraGrupo`): o que é de cada clube fica em `save.humanos[clube].estado` (`CAMPOS_CLUBE`) e as funções da carreira solo rodam na visão do clube (`vistaDe` / `guardarVista`). Cada um recebe o estado do seu clube no evento `carreira`. A página é a mesma da carreira solo: `?sala=`, `?grupo=1` ou `?criar=1` usam o canal novo (`public/carreira/grupo.js`: a sala de espera, `#grupo`). Rodada ao vivo (PR 5): `carreira-rodada.js` (relógio único, paradas com tempo, humano contra humano com `controla: 2` no motor, turbo; o anfitrião usa `act` `rodada` e `novaTemporada`; os humanos recebem o evento leve `rodada` e decidem com `decidir`). Quem saiu da sala (fora há mais de `CARREIRA_AUSENTE_MS`, 15 s) é "ausente": `Rd.tick(save, rod, agora, ausentes)` anda o jogo só de ausentes na hora e resolve as paradas deles com a decisão automática, sem segurar a rodada. O anfitrião usa `act` `dispensar` (`pessoa`, o id): na espera, a pessoa sai da sala; na carreira, o clube volta para o computador (`caixaIA`, o leilão dela é cancelado) e a pessoa vira espectador (evento `dispensado`); com a bola rolando, sai no fim da rodada (`limparDispensados`). A sede mostra o painel `#cartaoTurma` (`desenharTurma`, em `grupo.js`). Mercado (PR 6): o leilão de um jogador por vez (`act` `leilao`, `lance`, `martelo`, `recusar`; `carreira.js` `infoLeilao`, `erroDoLance`, `concluirLeilao`) e o olheiro (`olheiro`, também no solo). Os tempos aceleram pelo ambiente (`CARREIRA_VEL`, `CARREIRA_DECISAO_MS`, `CARREIRA_LANCE_MS`, `CARREIRA_ESPERA_MS`). |
 | `public/carreira/motor.js` | **Carreira de Treinador:** o motor da partida (UMD, com semente). `simularPartida({ casa, fora, semente, modo, controla, decisoes })`: modo 1 simulada, 2 com paradas táticas, 3 também com os lances decisivos; sem resposta em `decisoes[id]`, devolve `parado` e quem chama simula de novo. A calibragem fica em `AJUSTE`. Plano completo em `planos/carreira.md`. |
 

diff --git a/MUDANCAS.md b/MUDANCAS.md
@@ -1,49 +1,40 @@
-# Carreira: os escudos de todos os clubes refeitos em vetor, e os brasileiros desenhados um a um
+# Carreira: os escudos dos 96 clubes europeus refeitos à mão
 
-Os 142 escudos da carreira mudaram. Antes eram pixel-art de 16x18, com as letras borradas e vários clubes quase iguais
-(a mesma forma com cores diferentes). Agora são desenhos em SVG, nítidos em qualquer tamanho, e nenhum escudo é cópia
-de escudo de verdade.
+Depois dos brasileiros, as cinco ligas europeias ganham o mesmo cuidado: cada clube com as suas cores e um elemento que
+lembra o escudo, sem copiar o desenho de verdade. Nenhum dos 96 se repete.
 
-## Os 20 do Brasileirão, feitos à mão
-Cada um com o jeito do clube (as cores e um elemento que lembra o escudo, sem copiar o desenho):
-- **Flamengo:** listras vermelhas e pretas com o monograma CRF numa pílula.
-- **Palmeiras:** redondo verde com anel branco e o P grande.
-- **Cruzeiro:** redondo azul com o Cruzeiro do Sul (as cinco estrelas).
-- **Mirassol:** amarelo com faixa verde e o M grande.
-- **Fluminense:** as três faixas grená, branca e verde.
-- **Botafogo:** preto com a estrela branca grande.
-- **Bahia:** redondo tricolor com o B no centro.
-- **São Paulo:** branco com as faixas vermelha e preta e as três estrelas.
-- **Grêmio:** as faixas azul, preta e branca.
-- **Bragantino:** branco e vermelho com a bola.
-- **Atlético-MG:** listras pretas e brancas com a estrela dourada.
-- **Santos:** branco com as listras pretas em cima.
-- **Corinthians:** redondo branco e preto com a âncora.
-- **Vasco:** preto com a faixa diagonal e a cruz.
-- **Vitória:** listras vermelhas e pretas com as estrelas douradas.
-- **Internacional:** redondo vermelho com o SCI.
-- **Coritiba:** redondo verde e branco com o CFC.
-- **Athletico-PR:** pontudo, listras vermelhas e pretas na diagonal e o raio.
-- **Chapecoense:** verde com o ACF.
-- **Remo:** azul-marinho com os remos cruzados e a estrela.
+## Premier League (20)
+Bournemouth, Arsenal (o canhão), Aston Villa (a coroa), Brentford, Brighton, Chelsea, Coventry, Crystal Palace, Everton (a
+torre), Fulham, Hull City (as listras de tigre), Ipswich, Leeds, Liverpool (a chama), Manchester City, Manchester United,
+Newcastle, Nottingham Forest (a árvore), Sunderland e Tottenham (a bola).
 
-## Todos os outros
-- Os escudos das outras ligas usam a receita que já estava na base (cores, listras, anel, símbolo, estrelas) no
-  desenho novo.
-- Quando a receita era só fundo, borda e três letras (a maioria), o escudo ganha um de 7 desenhos (faixa no topo, duas
-  metades, faixa no meio, V, diagonal, listras ou cantos) e uma de 3 formas (escudo, tábua ou ponta), sorteados pelo id
-  do clube: com as mesmas cores, dois clubes não ficam iguais. Nenhum dos 142 se repete.
-- As letras ficam numa pílula na cor que dá leitura (se a cor das letras é parecida com a do fundo, a pílula troca de cor).
-- Contorno escuro, brilho suave por cima, e cada escudo na tela traz os seus próprios ids (sem choque quando o mesmo
-  escudo aparece várias vezes).
+## La Liga (20)
+Alavés, Athletic Club, Atlético de Madrid (as sete estrelas), Osasuna (a cruz), Celta, Deportivo, Elche, Barcelona (a
+faixa dourada e o azul-grená), Getafe, Levante, Málaga (a torre), Racing, Rayo (o raio), Espanyol, Betis, Real Madrid (a
+coroa), Real Sociedad, Sevilla, Valencia (o morcego) e Villarreal (o submarino amarelo).
 
-## O que não mudou
-- A API é a mesma (`Escudos.svg(clube)`), então todas as telas já usam os escudos novos. Ficou de fora a `grade`, que só o
-  teste antigo usava.
+## Serie A (20)
+Roma (SPQR), Atalanta, Bologna, Cagliari, Como, Fiorentina (a flor-de-lis), Frosinone, Genoa, Inter (redondo, com o FCIM),
+Juventus (as duas estrelas), Lazio (a estrela), Lecce, Milan, Monza, Parma (a cruz azul), Sassuolo, Napoli (o N), Torino (o
+touro), Udinese e Venezia.
+
+## Bundesliga (18)
+Köln, Mainz (o 05), Leverkusen (o 04), Dortmund (BVB 09), Gladbach, Frankfurt, Elversberg, Augsburg, Bayern (redondo, com os
+losangos), Hamburgo (o losango azul), Paderborn, Leipzig (RB), Freiburg, Schalke (S04), Werder (o W redondo), Hoffenheim,
+Union Berlin e Stuttgart (o V vermelho).
+
+## Ligue 1 (18)
+Auxerre, Angers, Monaco (a diagonal e a coroa), Lorient (a âncora), Le Havre, Le Mans, Lille (a flor-de-lis), Lyon, Nice,
+Marseille (OM), Paris FC, PSG (redondo, com a torre Eiffel), Lens, Brest (o 29), Rennes, Strasbourg, Toulouse (a flor) e
+Troyes.
+
+## Peças novas
+- Camadas: `cruz`, `chevron`, `metade` e `losangos`.
+- Símbolos: `canhao`, `chama`, `torre`, `arvore`, `morcego`, `submarino`, `flordelis`, `flor`, `touro` e `eiffel`.
+- Os clubes da Argentina e os sul-americanos seguem com o desenho automático (a receita da base, com um de 7 jeitos).
 
 ## Conferido
-- Folhas de contato de todas as ligas no navegador (os 142 clubes, sem erro no console) e a sede e a tabela com os escudos novos. Fotos: `planos/imagens/carreira-escudos-*.png`.
-- `npm test`: 175 de 175. O e2e da carreira não foi rodado desta vez.
-- A arte pixel-art das notícias (o feed) continua com o desenho dela: não usa estes escudos.
-- `tests/carreira-base.test.js`: todo clube tem escudo montado certo, os 20 do Brasileirão têm desenho próprio, nenhum
-  clube repete o desenho de outro e os ids mudam a cada escudo.
+- `npm test`: 176 de 176. O e2e da carreira não foi rodado (a mudança é só o desenho dos escudos).
+- Folhas de contato das cinco ligas no navegador, sem erro no console. Fotos: `planos/imagens/carreira-escudos-*.png`.
+- `tests/carreira-base.test.js`: os 96 europeus têm desenho próprio, nenhum desenho sobra sem clube, e nenhum clube repete o
+  desenho de outro.
